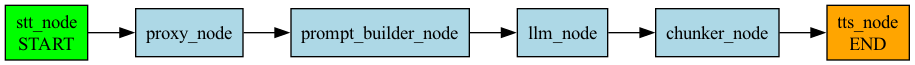
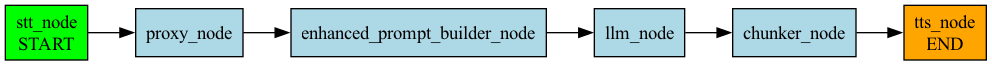
persistence on frontend conveyed to backend

Changed region(s): [[0.0, 0.0615, 1.0, 0.9538], [0.4284, 0.6462, 0.459, 0.6769]]

diff --git a/frontend/js/main.js b/frontend/js/main.js
@@ -20,7 +20,9 @@ class App {
             isRecording: false,
             connectionStatus: 'connecting',
             currentTranscript: '',
-            currentLLMResponse: ''
+            currentLLMResponse: '',
+            pendingTranscription: null,
+            pendingLLMResponse: null
         };
         
         this.init();
@@ -49,6 +51,10 @@ class App {
             this.state.chatHistory = savedState.chatHistory || [];
             this.state.flashcards = savedState.flashcards || [];
         }
+        
+        // Load existing conversation history
+        const existingConversation = this.storage.getConversationHistory();
+        console.log('Loading existing conversation history:', existingConversation.messages.length, 'messages');
     }
     
     saveState() {
@@ -66,6 +72,19 @@ class App {
         
         this.wsClient.on('connection', (status) => {
             this.state.connectionStatus = status;
+            
+            // Send existing conversation history to backend when connected
+            if (status === 'connected') {
+                const existingConversation = this.storage.getConversationHistory();
+                if (existingConversation.messages.length > 0) {
+                    console.log('Sending existing conversation history to backend:', existingConversation.messages.length, 'messages');
+                    this.wsClient.send({
+                        type: 'conversation_update',
+                        data: existingConversation
+                    });
+                }
+            }
+            
             this.render();
         });
         
@@ -100,8 +119,9 @@ class App {
         });
         
         this.wsClient.on('transcription', (data) => {
-            this.addMessage('learner', data.text);
+            this.state.pendingTranscription = data.text;
             this.state.currentTranscript = '';
+            this.checkAndUpdateConversation();
             this.render();
         });
         
@@ -110,6 +130,8 @@ class App {
         });
         
         this.wsClient.on('llm_response_complete', (data) => {
+            this.state.pendingLLMResponse = data.text;
+            this.checkAndUpdateConversation();
             this.handleLLMResponseComplete(data.text);
         });
         
@@ -159,7 +181,45 @@ class App {
         this.render();
     }
     
+    checkAndUpdateConversation() {
+        // Only proceed when we have both transcription and LLM response
+        console.log('checkAndUpdateConversation called - pending transcription:', this.state.pendingTranscription, 'pending LLM:', this.state.pendingLLMResponse);
+        
+        if (this.state.pendingTranscription && this.state.pendingLLMResponse) {
+            console.log('Adding messages to conversation history...');
+            
+            // Add both messages to conversation history (with automatic truncation)
+            const userHistory = this.storage.addMessage('user', this.state.pendingTranscription);
+            const assistantHistory = this.storage.addMessage('assistant', this.state.pendingLLMResponse);
+            
+            console.log('User message added, total messages:', userHistory.messages.length);
+            console.log('Assistant message added, total messages:', assistantHistory.messages.length);
+            
+            // Add to chat history for display
+            this.addMessageToHistory('learner', this.state.pendingTranscription);
+            this.addMessageToHistory('teacher', this.state.pendingLLMResponse);
+            
+            // Get updated conversation history and send to backend
+            const conversationHistory = this.storage.getConversationHistory();
+            console.log('Sending conversation update to backend:', conversationHistory.messages.length, 'messages');
+            
+            this.wsClient.send({
+                type: 'conversation_update',
+                data: conversationHistory
+            });
+            
+            // Clear pending messages
+            this.state.pendingTranscription = null;
+            this.state.pendingLLMResponse = null;
+        }
+    }
+    
     addMessage(role, content) {
+        // This method is kept for backward compatibility with existing addMessage calls
+        this.addMessageToHistory(role, content);
+    }
+    
+    addMessageToHistory(role, content) {
         const message = { role, content };
         this.state.chatHistory.push(message);
         this.saveState();
@@ -192,7 +252,8 @@ class App {
     }
     
     handleLLMResponseComplete(fullText) {
-        this.addMessage('teacher', fullText);
+        // Message adding is now handled by checkAndUpdateConversation()
+        // This just clears the current response state for UI
         this.state.currentLLMResponse = '';
         this.state.currentTranscript = '';
         this.render();

diff --git a/backend/graphs/conversation-graph.ts b/backend/graphs/conversation-graph.ts
@@ -6,12 +6,16 @@ import {
   NodeFactory, 
   registerCustomNodeType
 } from '@inworld/runtime/graph';
+import { renderJinja } from '@inworld/runtime/primitives/llm';
 
 export interface ConversationGraphConfig {
   apiKey: string;
 }
 
-export function createConversationGraph(config: ConversationGraphConfig) {
+export function createConversationGraph(
+  config: ConversationGraphConfig,
+  getConversationState: () => { messages: Array<{ role: string; content: string; timestamp: string }> }
+) {
   // Create STT component
   const sttComponent = ComponentFactory.createRemoteSTTComponent({
     id: `stt_component`,
@@ -21,26 +25,51 @@ export function createConversationGraph(config: ConversationGraphConfig) {
     },
   });
 
-  const promptBuilderType = registerCustomNodeType(
-    `prompt_builder_${Date.now()}`,
-    [CustomInputDataType.TEXT],
+  const enhancedPromptBuilderType = registerCustomNodeType(
+    `enhanced_prompt_builder_${Date.now()}`,
+    [CustomInputDataType.TEXT], // Current STT transcription
     CustomOutputDataType.CHAT_REQUEST,
-    async (context, input) => {
-      console.log('prompt_builder', input);
+    async (context, currentInput) => {
+      const conversationState = getConversationState(); // Previous conversation
+      console.log('=== Enhanced Prompt Builder ===');
+      console.log('Enhanced prompt builder input:', currentInput);
+      console.log('Conversation state messages count:', conversationState.messages.length);
+      console.log('Full conversation state:', JSON.stringify(conversationState, null, 2));
+
+      const template = `You are a helpful language learning assistant.
+
+{% if messages and messages|length > 0 %}
+Previous conversation:
+{% for message in messages %}
+{{ message.role }}: {{ message.content }}
+{% endfor %}
+{% endif %}
+
+User: {{ current_input }}
+
+Please respond naturally and helpfully.`;
+
+      const templateData = {
+        messages: conversationState.messages || [],
+        current_input: currentInput
+      };
+
+      console.log('Template data being sent to Jinja:', JSON.stringify(templateData, null, 2));
+
+      const renderedPrompt = await renderJinja(template, JSON.stringify(templateData));
+      console.log('=== Rendered Prompt ===');
+      console.log(renderedPrompt);
+      console.log('========================');
+
       return {
-        messages: [
-          {
-            role: 'user',
-            content: `respond to the following user message: ${input}`
-          }
-        ]
-      }
+        messages: [{ role: 'user', content: renderedPrompt }]
+      };
     }
   )
 
   const promptBuilderNode = NodeFactory.createCustomNode(
-    'prompt_builder_node',
-    promptBuilderType,
+    'enhanced_prompt_builder_node',
+    enhancedPromptBuilderType,
   );
 
   const proxyNode = NodeFactory.createProxyNode({

diff --git a/frontend/js/storage.js b/frontend/js/storage.js
@@ -1,6 +1,7 @@
 export class Storage {
     constructor() {
         this.storageKey = 'aprende-app-state';
+        this.conversationKey = 'aprende-conversation-history';
     }
     
     saveState(state) {
@@ -30,6 +31,56 @@ export class Storage {
             localStorage.removeItem(this.storageKey);
         } catch (error) {
             console.error('Failed to clear state from localStorage:', error);
+        }
+    }
+    
+    // Conversation history methods
+    getConversationHistory() {
+        try {
+            const serializedHistory = localStorage.getItem(this.conversationKey);
+            if (serializedHistory === null) {
+                return { messages: [] };
+            }
+            return JSON.parse(serializedHistory);
+        } catch (error) {
+            console.error('Failed to load conversation history from localStorage:', error);
+            return { messages: [] };
+        }
+    }
+    
+    addMessage(role, content) {
+        const history = this.getConversationHistory();
+        
+        // Add new message with timestamp
+        const message = {
+            role: role,
+            content: content,
+            timestamp: new Date().toISOString()
+        };
+        
+        history.messages.push(message);
+        
+        // Truncate to keep only last 40 turns (80 messages: 40 user + 40 assistant)
+        if (history.messages.length > 80) {
+            history.messages = history.messages.slice(-80);
+        }
+        
+        // Save updated history
+        try {
+            const serializedHistory = JSON.stringify(history);
+            localStorage.setItem(this.conversationKey, serializedHistory);
+        } catch (error) {
+            console.error('Failed to save conversation history to localStorage:', error);
+        }
+        
+        return history;
+    }
+    
+    clearConversation() {
+        try {
+            localStorage.removeItem(this.conversationKey);
+        } catch (error) {
+            console.error('Failed to clear conversation history from localStorage:', error);
         }
     }
 }

diff --git a/backend/helpers/audio-processor.ts b/backend/helpers/audio-processor.ts
@@ -14,10 +14,37 @@ export class AudioProcessor {
   private isReady = false;
   private websocket: any = null;
   private debugCounter = 0;
+  private conversationState: { messages: Array<{ role: string; content: string; timestamp: string }> } = {
+    messages: []
+  };
 
   constructor(private apiKey: string, websocket?: any) {
     this.websocket = websocket;
+    this.setupWebSocketMessageHandler();
     setTimeout(() => this.initialize(), 100);
+  }
+
+  private setupWebSocketMessageHandler() {
+    if (this.websocket) {
+      this.websocket.on('message', (data: string) => {
+        try {
+          const message = JSON.parse(data);
+          
+          if (message.type === 'conversation_update') {
+            console.log('Received conversation_update message:', message.data);
+            this.conversationState = message.data;
+            console.log('Updated conversation state:', this.conversationState.messages.length, 'messages');
+            console.log('Full conversation state:', JSON.stringify(this.conversationState, null, 2));
+          }
+        } catch (error) {
+          // Not a JSON message or conversation update, ignore
+        }
+      });
+    }
+  }
+
+  private getConversationState() {
+    return this.conversationState;
   }
 
   private async initialize() {
@@ -58,7 +85,10 @@ export class AudioProcessor {
     
     // Initialize conversation graph
     console.log('AudioProcessor: Creating conversation graph...');
-    this.executor = createConversationGraph({ apiKey: this.apiKey });
+    this.executor = createConversationGraph(
+      { apiKey: this.apiKey },
+      () => this.getConversationState()
+    );
     this.executor.visualize('conversation_graph.png');
     this.isReady = true;
     console.log('AudioProcessor: Initialization complete, ready for audio processing');

diff --git a/frontend/js/chat-ui.js b/frontend/js/chat-ui.js
@@ -17,11 +17,8 @@ export class ChatUI {
             this.messagesContainer.appendChild(messageElement);
         });
         
-        // Show streaming LLM response if it exists
-        if (currentLLMResponse && currentLLMResponse.trim()) {
-            const streamingElement = this.createStreamingMessageElement(currentLLMResponse);
-            this.messagesContainer.appendChild(streamingElement);
-        }
+        // Removed streaming message display to avoid duplicates
+        // The response will appear once complete as a regular message
         
         this.scrollToBottom();
     }

diff --git a/frontend/js/websocket-client.js b/frontend/js/websocket-client.js
@@ -144,6 +144,12 @@ export class WebSocketClient {
         }
     }
     
+    send(message) {
+        if (this.ws && this.ws.readyState === WebSocket.OPEN) {
+            this.ws.send(JSON.stringify(message));
+        }
+    }
+    
     sendAudioChunk(audioData) {
         if (this.ws && this.ws.readyState === WebSocket.OPEN) {
             const message = {
